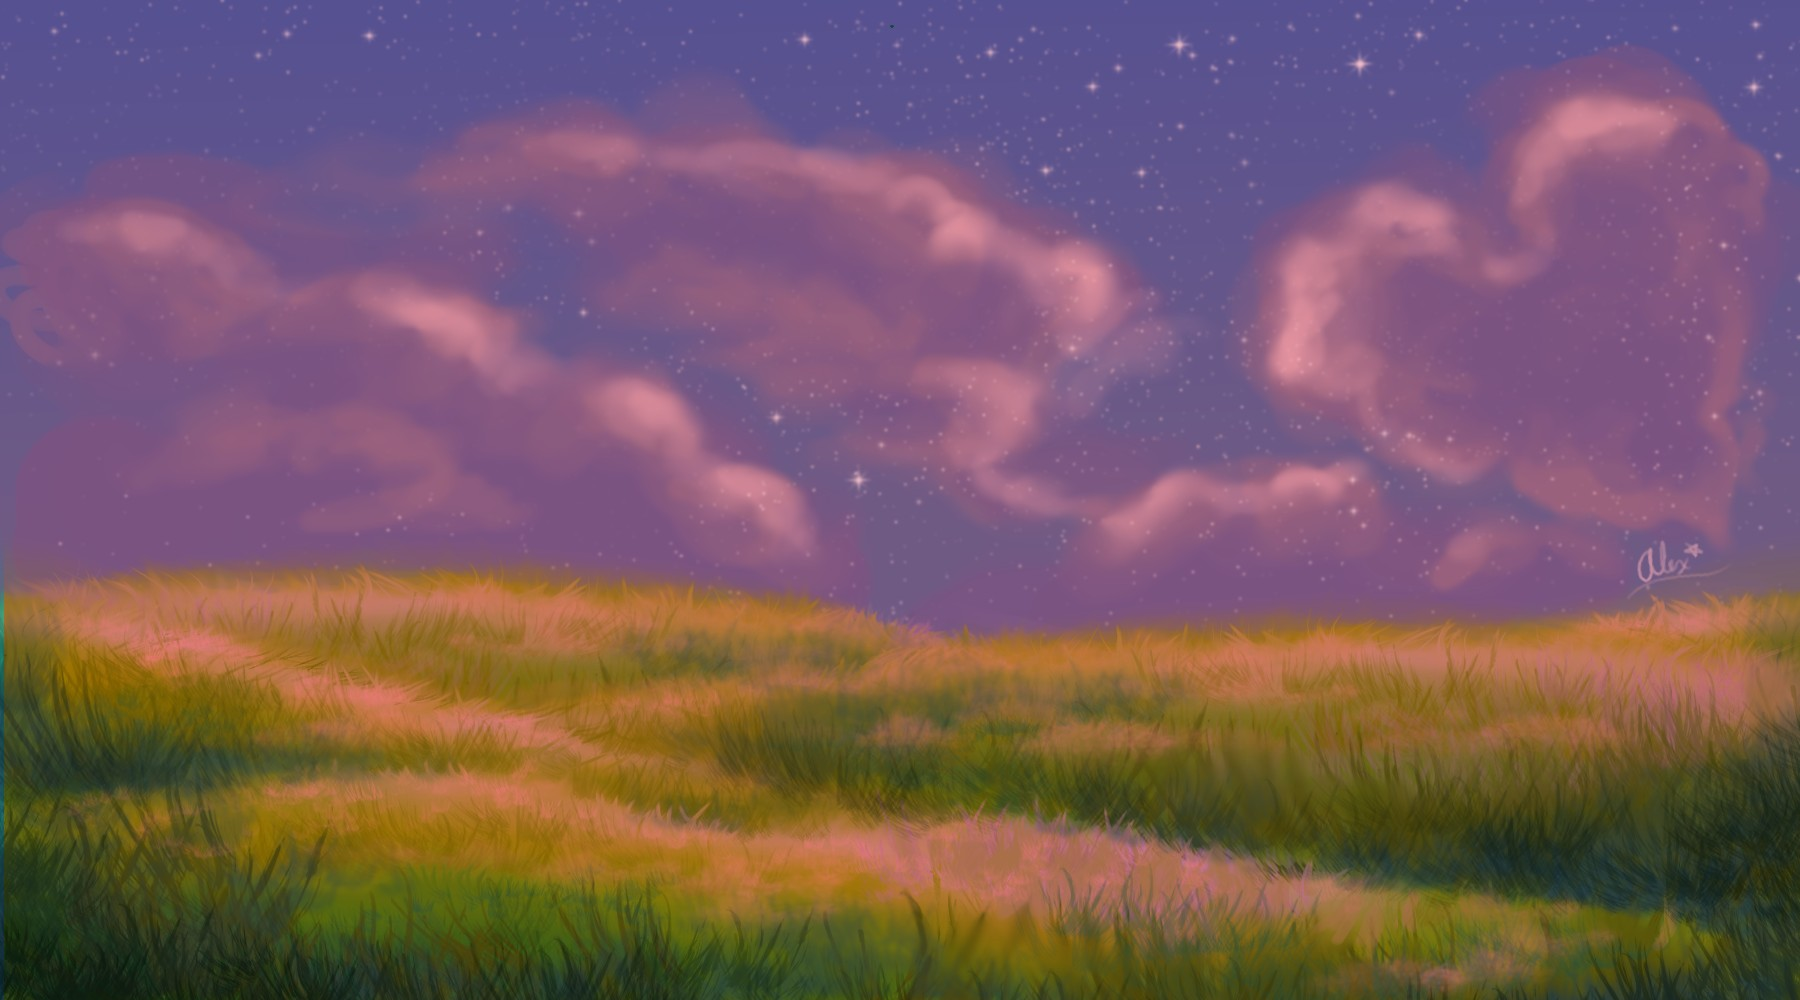
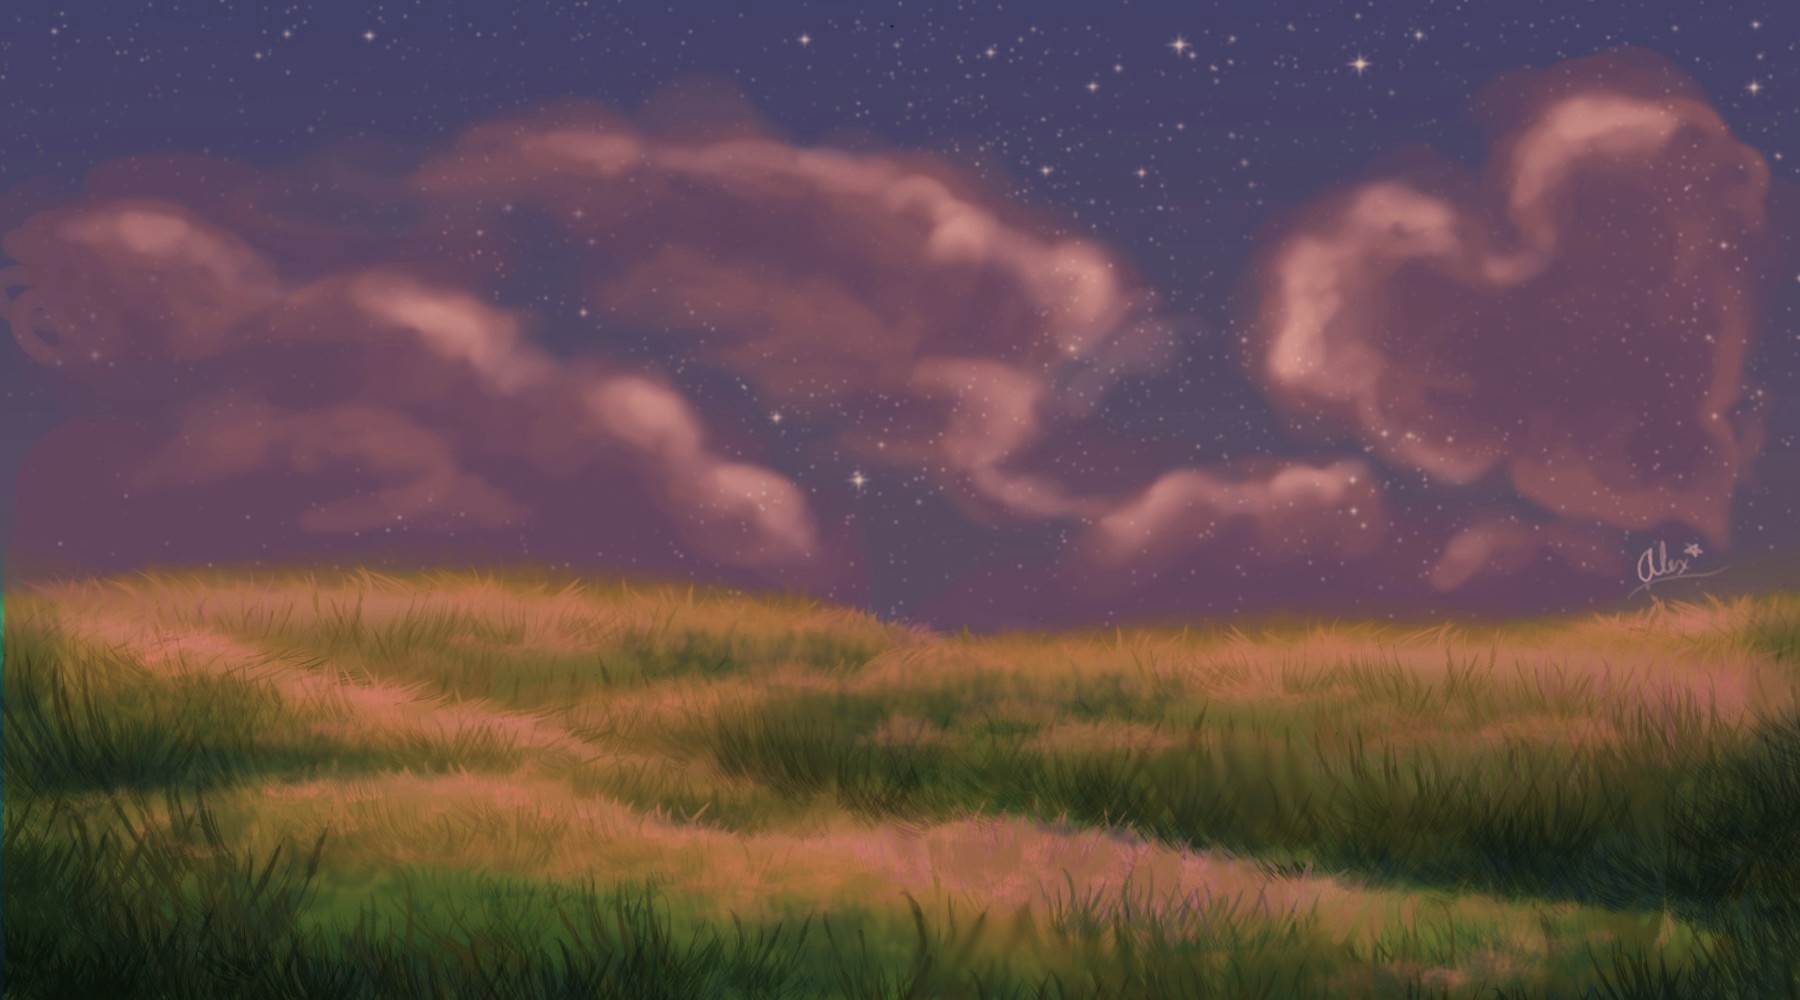
Changed bg

diff --git a/dollistylesheet.css b/dollistylesheet.css
@@ -8,7 +8,7 @@ body{
     height:100dvh;
     overflow-y: hidden;
     overflow-x:hidden;
-    background-image: url(DressupGame_Assets/Scenes/background3.jpg);
+    background-image: url(DressupGame_Assets/Scenes/cloudysky.jpeg);
     background-size: cover;
     box-shadow: inset 0px 0px 50px #5914374d;
     padding-top: 3px;
@@ -878,7 +878,7 @@ img.hairstyles{
   align-items: center;
   justify-content: center;
   flex-direction: column;
-  background-image: url(DressupGame_Assets/Scenes/background3.jpg);
+  background-image: url(DressupGame_Assets/Scenes/cloudysky.jpeg);
   background-size: cover;
   box-shadow: inset 0px 0px 50px #5914374d;
 }
@@ -995,8 +995,7 @@ span{
   height: 100%;
   z-index: 9998;
   display: none;
-  background-color: #75a1ba53;
-  box-shadow: inset 0px 0px 50px #5914374d;
+
   padding-top: 3px;
   user-select: none;
 }

diff --git a/dollidemo.html b/dollidemo.html
@@ -954,6 +954,9 @@ html, body {
 <audio id="song3" src="DressupGame_Assets/Music/threads-spireleaf.mp3" loop></audio>
 
 
+
+
+
 <div id="loadingoverlay">
 
   <img id="loadlogo" src="DressupGame_Assets/Logos/Dolli_Logo_Load.png"/>
@@ -968,6 +971,9 @@ html, body {
  </div>
  <span>© 2026 Alexsandria Manuel</span>
 </div>
+
+
+
 
 <script>
 function applyColorFilter(value) {

diff --git a/infoboxstylesheet.css b/infoboxstylesheet.css
@@ -214,6 +214,6 @@ form{
 
 label{
     color:#96296C;
-    font-family: zain;
+    font-family: zainreg;
     line-height: 1.4;
 }
